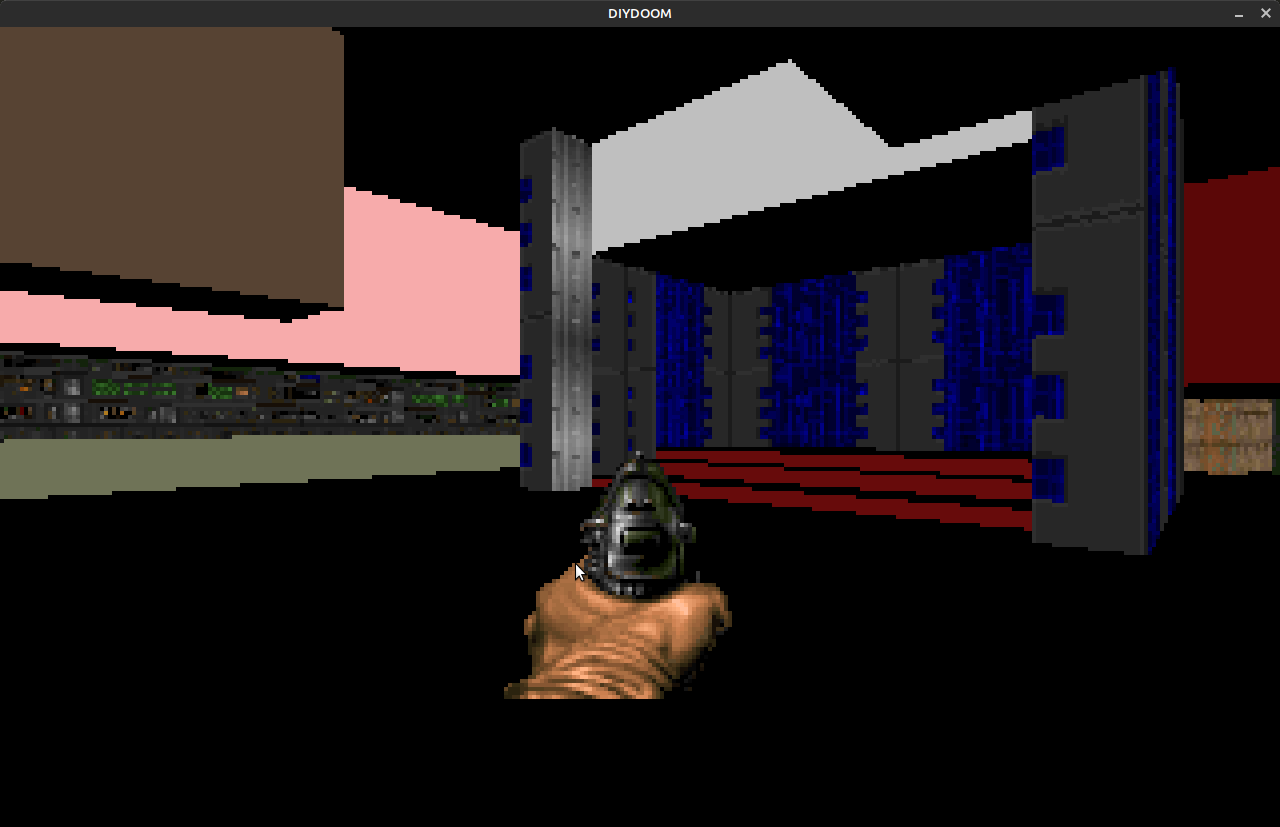
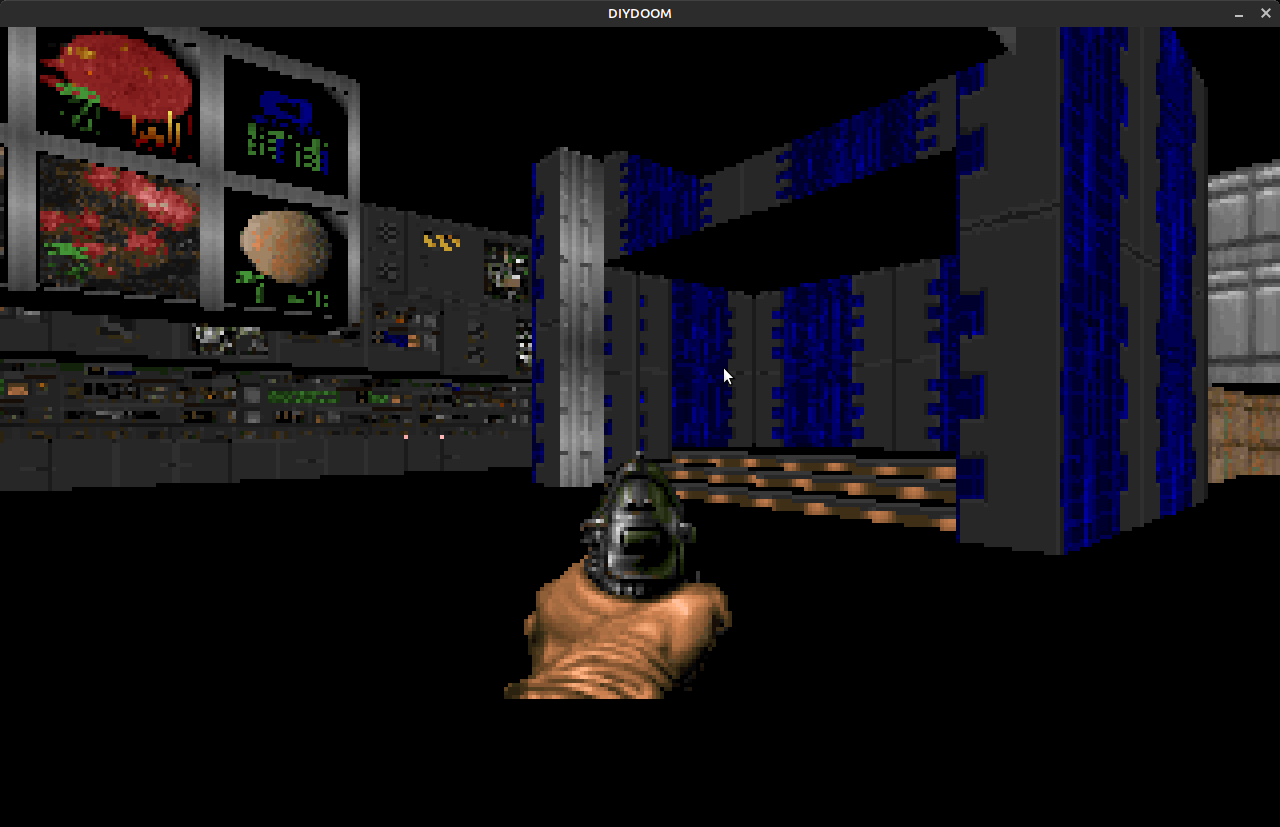
Draw textures for walls

diff --git a/src/ViewRenderer.cpp b/src/ViewRenderer.cpp
@@ -412,37 +412,16 @@ bool ViewRenderer::ValidateRange(SegmentRenderData &renderData, int &iXCur, int 
 
 
 void ViewRenderer::DrawMiddleSection(SegmentRenderData &renderData, int iXcur, int curCeilingEnd, int curFloorStart){
-  DrawVerticalLine(iXcur,curCeilingEnd, curFloorStart, 
-                   GetWallColor(renderData.pSeg->pLinedef->pRightSidedef->MiddleTexture)- renderData.pSeg->pLinedef->pRightSidedef->pSector->Lightlevel);
+  // DrawVerticalLine(iXcur,
+  //                  curCeilingEnd, 
+  //                  curFloorStart, 
+  //                  GetWallColor(renderData.pSeg->pLinedef->pRightSidedef->MiddleTexture)- renderData.pSeg->pLinedef->pRightSidedef->pSector->Lightlevel);
   auto angleV1woClip =m_pPlayer->AngleOfVertexInFOV(*(renderData.pSeg->pLinedef->pStartVertex))- m_pPlayer->GetAngle()+ 90;
   auto angleV2woClip =m_pPlayer->AngleOfVertexInFOV(*(renderData.pSeg->pLinedef->pEndVertex))- m_pPlayer->GetAngle() + 90;
   
   auto assetInst = AssetsManager::GetInstance();
   auto texture = assetInst->GetTexture(renderData.pSeg->pLinedef->pRightSidedef->MiddleTexture);
-  int textureYStart, textureYEnd;
-  int curColumn;
-  float v1Angle = angleV1woClip.GetValue() < 180 + 90 ? angleV1woClip.GetValue() : - 360 + angleV1woClip.GetValue();
-  float v2angle = angleV2woClip.GetValue() < 180 + 90 ? angleV2woClip.GetValue() : - 360 + angleV2woClip.GetValue();
-  int vx = renderData.pSeg->pLinedef->pStartVertex->X_pos - renderData.pSeg->pLinedef->pEndVertex->X_pos;
-  int vy = renderData.pSeg->pLinedef->pStartVertex->Y_pos - renderData.pSeg->pLinedef->pEndVertex->Y_pos;
-  float vertLen = sqrt(vx*vx + vy*vy);
-  if(v1Angle > v2angle)
-    curColumn = vertLen*(atan2f(m_DistPlayerToScreen, iXcur - X_half_screen_size  )*180/PI- v2angle )/float(v1Angle - v2angle);
-  else
-    curColumn = vertLen*(v1Angle - atan2f(m_DistPlayerToScreen, iXcur - X_half_screen_size )*180/PI)/float(v2angle - v1Angle);
-
-  textureYStart =  (texture->GetHeight()- 1)*(curCeilingEnd - renderData.CeilingEnd)/float(renderData.FloorStart - renderData.CeilingEnd);
-  textureYEnd   =  (texture->GetHeight()- 1)*(curFloorStart - renderData.CeilingEnd)/float(renderData.FloorStart - renderData.CeilingEnd);
-  curColumn = curColumn < 0? 0 : curColumn;
-  curColumn = curColumn % texture->GetWidth();
-  texture->RenderColumnWithScale(m_pScreenBuffer, 
-                                  m_iBufferPitch, 
-                                  curColumn, 
-                                  iXcur, 
-                                  curCeilingEnd, 
-                                  curFloorStart, 
-                                  textureYStart, 
-                                  textureYEnd);
+  DrawTexture(renderData, texture, iXcur, curCeilingEnd, curFloorStart, renderData.CeilingEnd, renderData.FloorStart);
   m_CeilingClipHeight[iXcur] = Y_screen_size;
   m_FloorClipHeight[iXcur] = -1;
 }
@@ -455,7 +434,17 @@ void ViewRenderer::DrawUpperSection(SegmentRenderData &renderData, int iXcur, in
       iUpperHeight = m_FloorClipHeight[iXcur] -1;
 
     if(iUpperHeight>= curCeilingEnd){
-      DrawVerticalLine(iXcur, curCeilingEnd, iUpperHeight, GetWallColor(renderData.pSeg->pLinedef->pRightSidedef->UpperTexture));
+      //DrawVerticalLine(iXcur, curCeilingEnd, iUpperHeight, GetWallColor(renderData.pSeg->pLinedef->pRightSidedef->UpperTexture));
+      auto assetInst = AssetsManager::GetInstance();
+      auto texture = assetInst->GetTexture(renderData.pSeg->pLinedef->pRightSidedef->UpperTexture);
+      if(!isnan(renderData.UpperHeightStep))
+      DrawTexture(renderData, 
+                  texture, 
+                  iXcur, 
+                  curCeilingEnd, 
+                  iUpperHeight, 
+                  renderData.CeilingEnd, 
+                  Y_half_screen_size - (renderData.LeftSectorCeiling*renderData.V1ScaleFactor) + (iXcur - renderData.V1XScreen)*renderData.UpperHeightStep);
       m_CeilingClipHeight[iXcur] = iUpperHeight;
     }else
       m_CeilingClipHeight[iXcur] = curCeilingEnd-1;
@@ -470,12 +459,20 @@ void ViewRenderer::DrawLowerSection(SegmentRenderData &renderData, int iXcur, in
     renderData.iLowerHeight+= renderData.LowerHeightStep;
 
     if(iLowerHeigh<m_CeilingClipHeight[iXcur])
-      iLowerHeigh = m_CeilingClipHeight[iXcur] +1;
+      iLowerHeigh = m_CeilingClipHeight[iXcur] + 1;
 
     if(iLowerHeigh <= curFloorStart){
-      //SDL_RenderDrawLine(m_pRenderer, iXcur, iLowerHeigh, iXcur, curFloorStart);
-      DrawVerticalLine(iXcur, iLowerHeigh, curFloorStart, GetWallColor(renderData.pSeg->pLinedef->pRightSidedef->LowerTexture));
-
+      //DrawVerticalLine(iXcur, iLowerHeigh, curFloorStart, GetWallColor(renderData.pSeg->pLinedef->pRightSidedef->LowerTexture));
+      auto assetInst = AssetsManager::GetInstance();
+      auto texture = assetInst->GetTexture(renderData.pSeg->pLinedef->pRightSidedef->LowerTexture);
+      if (texture && !isnan(renderData.LowerHeightStep))
+        DrawTexture(renderData, 
+                    texture, 
+                    iXcur, 
+                    iLowerHeigh, 
+                    curFloorStart, 
+                    Y_half_screen_size - (renderData.LeftSectorFloor * renderData.V1ScaleFactor) + (iXcur - renderData.V1XScreen)*renderData.LowerHeightStep, 
+                    renderData.FloorStart);
       m_FloorClipHeight[iXcur] = iLowerHeigh;
     }else
       m_FloorClipHeight[iXcur] = curFloorStart+1;
@@ -483,6 +480,42 @@ void ViewRenderer::DrawLowerSection(SegmentRenderData &renderData, int iXcur, in
   }else if(renderData.UpdateFloor){
     m_FloorClipHeight[iXcur] = curFloorStart+1;
   }
+}
+
+
+
+void ViewRenderer::DrawTexture(SegmentRenderData &renderData, Texture *pTexture , int iXCur, int YStart, int YEnd, float realYstart, float realYend){
+  auto angleV1woClip =m_pPlayer->AngleOfVertexInFOV(*(renderData.pSeg->pLinedef->pStartVertex)) - m_pPlayer->GetAngle() + 90;
+  auto angleV2woClip =m_pPlayer->AngleOfVertexInFOV(*(renderData.pSeg->pLinedef->pEndVertex  )) - m_pPlayer->GetAngle() + 90;
+  
+  float v1Dist = m_pPlayer->DistanceToPoint((*(renderData.pSeg->pLinedef->pStartVertex)));
+  float v2Dist = m_pPlayer->DistanceToPoint((*(renderData.pSeg->pLinedef->pEndVertex)));
+
+  float curIXAngel = atan2f(m_DistPlayerToScreen, iXCur - X_half_screen_size)*180.0/PI;
+
+  float v1Angle = angleV1woClip.GetValue() < 180 + 90 ? angleV1woClip.GetValue() : - 360 + angleV1woClip.GetValue();
+  float v2angle = angleV2woClip.GetValue() < 180 + 90 ? angleV2woClip.GetValue() : - 360 + angleV2woClip.GetValue();
+  
+  int vx = renderData.pSeg->pLinedef->pStartVertex->X_pos - renderData.pSeg->pLinedef->pEndVertex->X_pos;
+  int vy = renderData.pSeg->pLinedef->pStartVertex->Y_pos - renderData.pSeg->pLinedef->pEndVertex->Y_pos;
+  float vertLen = sqrt(vx*vx + vy*vy);
+  float theta = acos((vertLen*vertLen + v1Dist*v1Dist - v2Dist*v2Dist)/(2.0*vertLen*v1Dist));
+
+  int curColumn = vertLen-  v1Dist*sin((v1Angle  - curIXAngel)*PI/180.0)/sin(PI - theta - (v1Angle - curIXAngel)*PI/180.0);
+  
+
+  int textureYStart =  (pTexture->GetHeight()- 1)*(YStart - realYstart)/float(realYend - realYstart);
+  int textureYEnd   =  (pTexture->GetHeight()- 1)*(YEnd - realYstart)/float(realYend - realYstart);
+  curColumn = curColumn < 0? 0 : curColumn;
+  curColumn = curColumn % pTexture->GetWidth();
+  pTexture->RenderColumnWithScale(m_pScreenBuffer, 
+                                  m_iBufferPitch, 
+                                  curColumn, 
+                                  iXCur, 
+                                  YStart, 
+                                  YEnd, 
+                                  textureYStart, 
+                                  textureYEnd);
 }
 
 void ViewRenderer::DrawVerticalLine(int iX, int iStartY, int iEndY, uint8_t color){

diff --git a/include/ViewRenderer.h b/include/ViewRenderer.h
@@ -2,7 +2,7 @@
 
 #include "data_types.h"
 #include "map.h"
-
+#include "Texture.h"
 #include <list>
 #include <map>
 #include<vector>
@@ -79,7 +79,7 @@ class ViewRenderer {
   void DrawMiddleSection(SegmentRenderData &renderData, int iXcur, int curCeilingEnd, int curFloorStart);
   void DrawUpperSection(SegmentRenderData &renderData, int iXcur, int curCeilingEnd);
   void DrawLowerSection(SegmentRenderData &renderData, int iXcur, int curFloorStart);
-
+  void DrawTexture(SegmentRenderData &renderData, Texture *pTexture, int iXCur, int YStart, int YEnd, float realYstart, float realYend);
   
   void CalculateWallHeight(Seg &seg, int v1X, int v2X, Angle v1Angle, Angle v2Angle );
   void CalculateCeilingFloorHeight(Seg &seg, int &VXScreen, float &DistanceToV, float &CeilingVOnScreen, float &FloorVOnScreen);

diff --git a/README.md b/README.md
@@ -1,5 +1,5 @@
 # DIYDOOM
 This is a doom project based on [this guide](https://github.com/amroibrahim/DIYDoom)
 ![demo1](doc/demo1.png)
-!!Now i can draw textures for solid walls!!
+!!Now i can draw textures!!
 ![demo2](doc/demo2.png)
